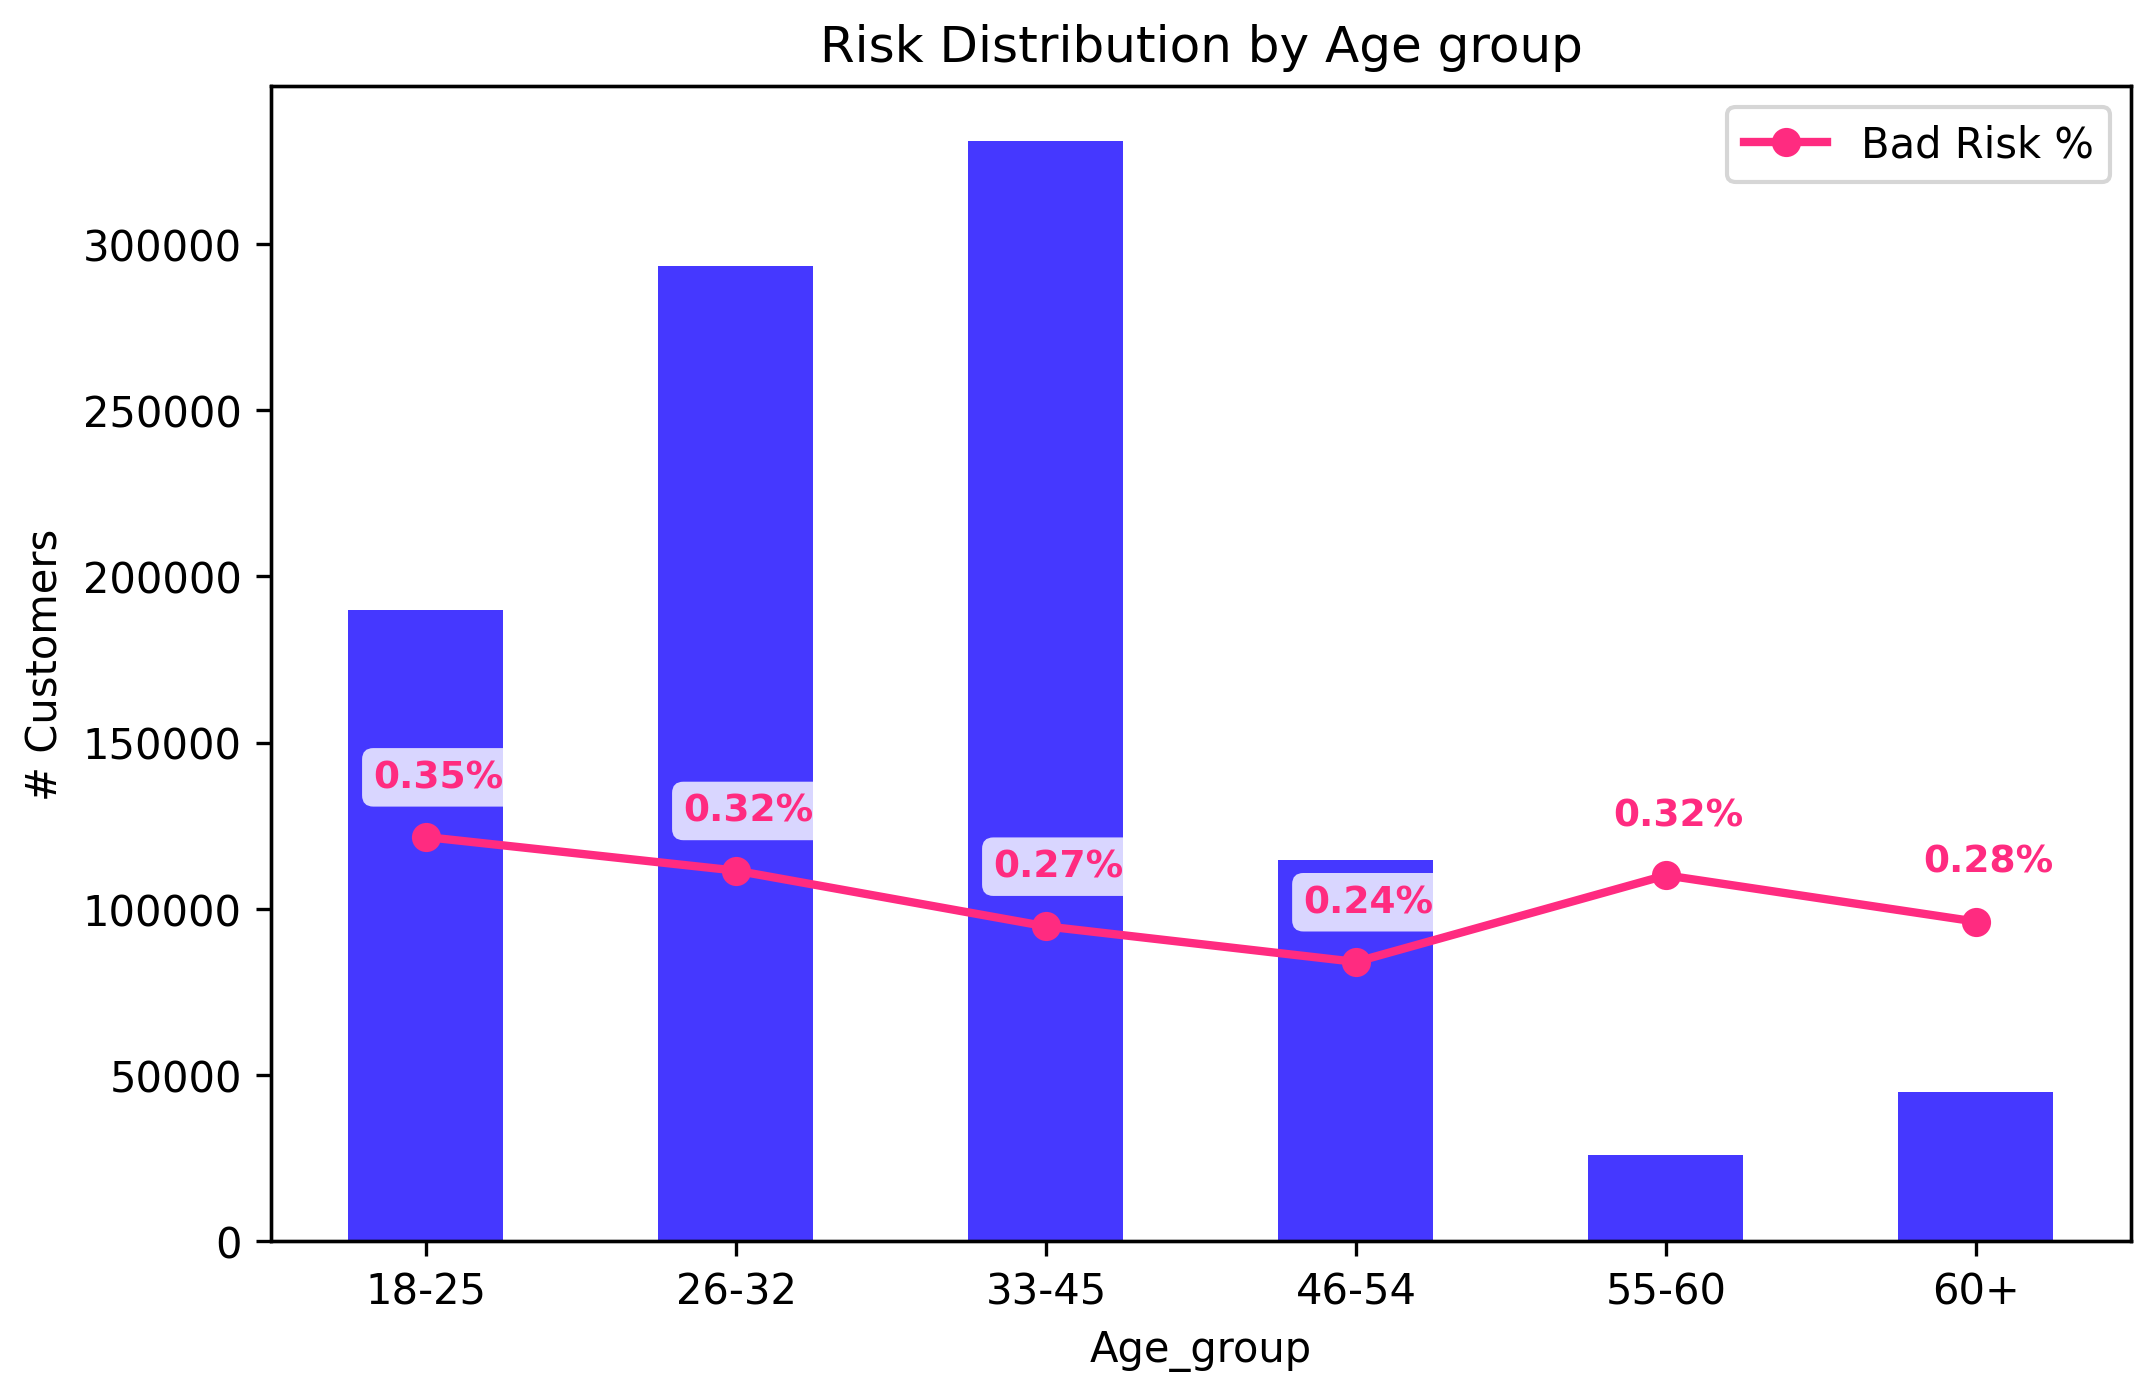
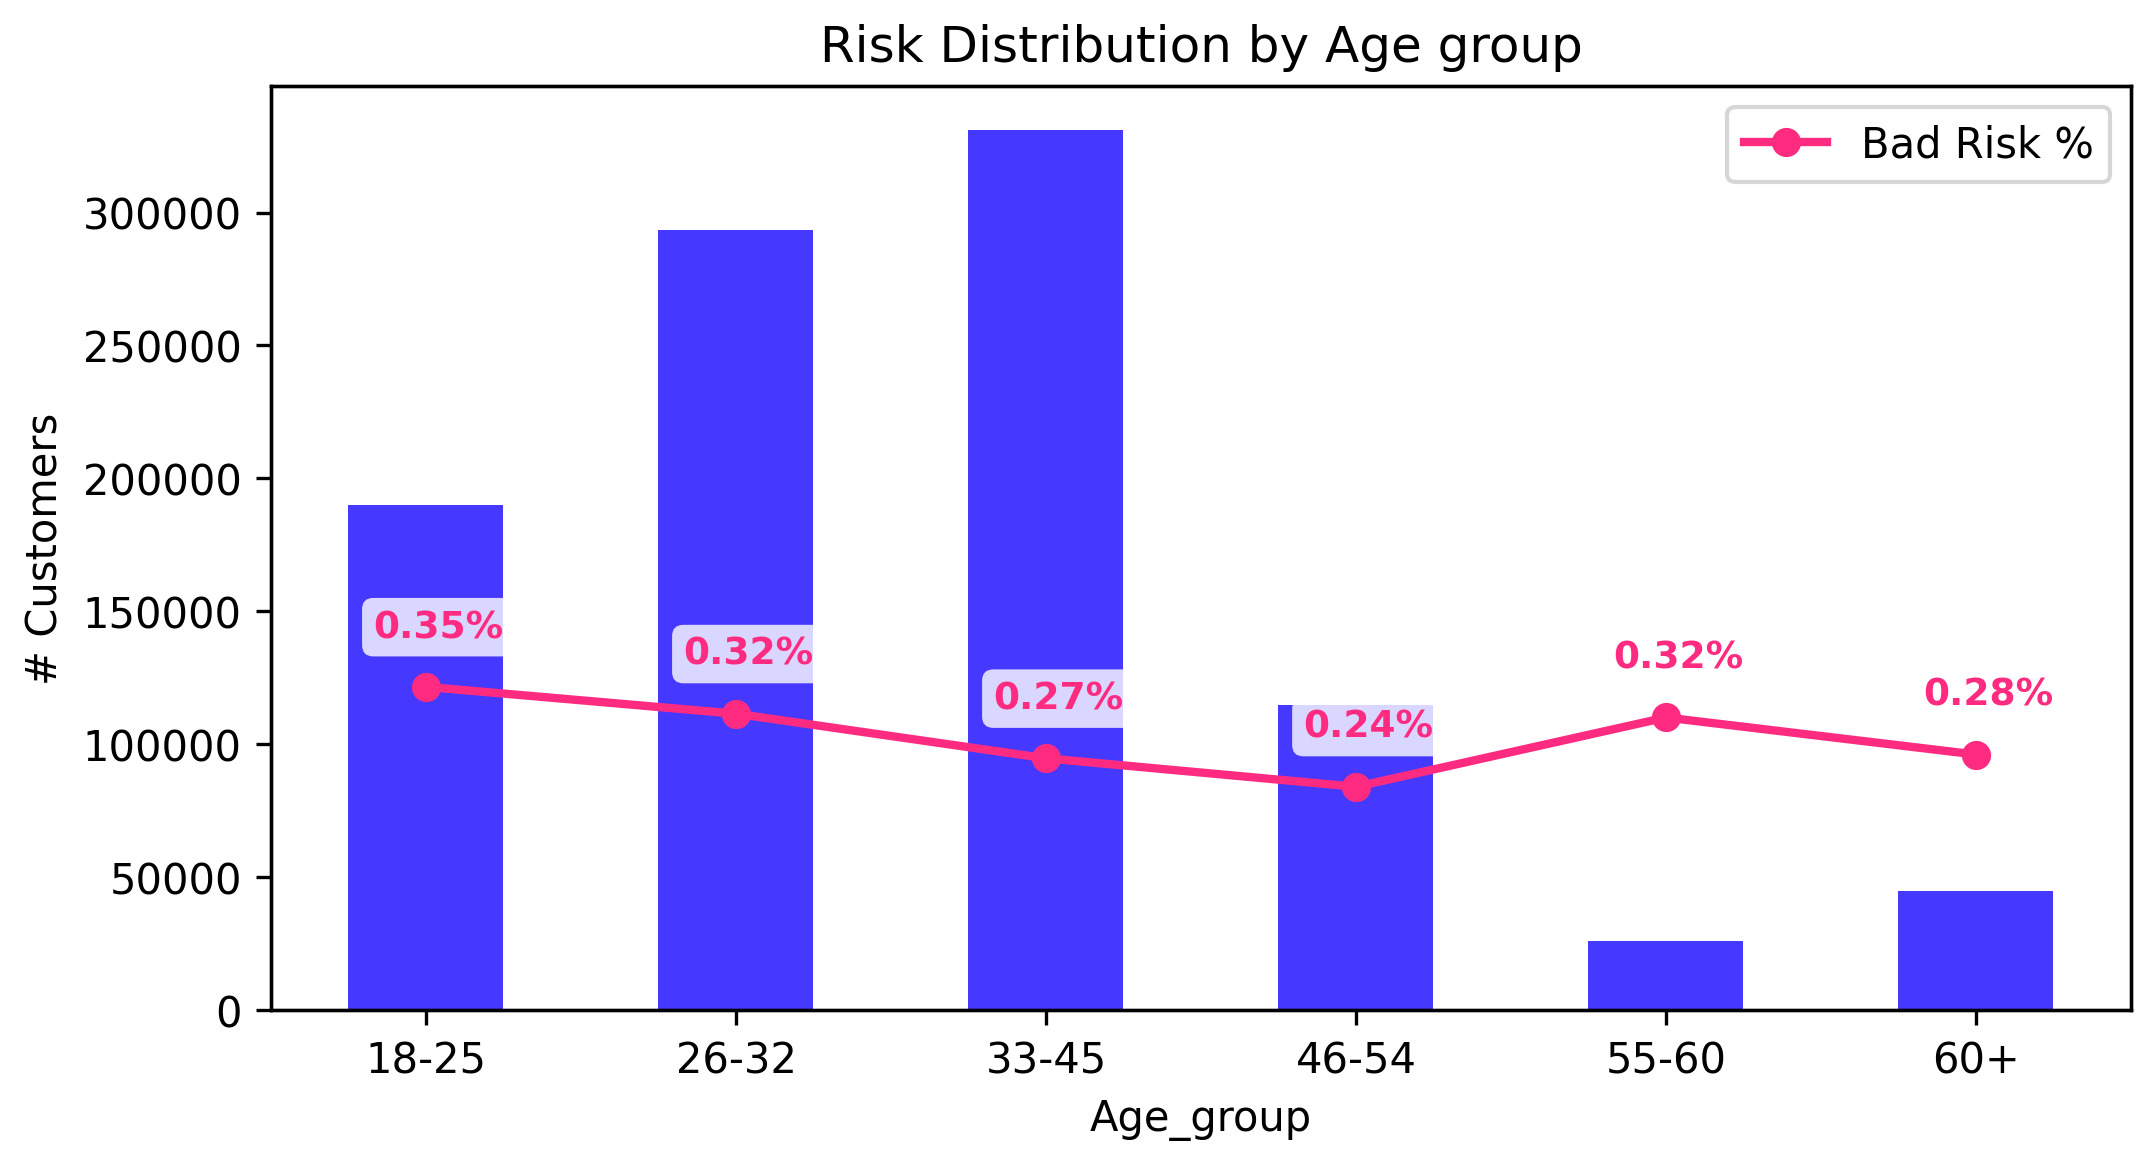
fix graphics page

diff --git a/frontend/src/app/datasample/analisys/page.tsx b/frontend/src/app/datasample/analisys/page.tsx
@@ -5,7 +5,7 @@ import {
   SidebarProvider,
   SidebarTrigger,
 } from "@/components/ui/sidebar";
-import { Card, CardContent } from "@/components/ui/card";
+import { Card, CardContent, CardDescription, CardHeader, CardTitle } from "@/components/ui/card";
 
 export default function Page() {
   return (
@@ -30,50 +30,102 @@ export default function Page() {
                 explicação do seu propósito e interpretação principal.
               </p>
 
-              <div className="grid grid-cols-1 md:grid-cols-2 gap-6 bg-muted/30">
-                <Card className="bg-muted/30">
-                  <CardContent>
-                    <img src="/exploratory/age_distribution.png" alt="Age distribution" className="w-full rounded-md" />
-                  </CardContent>
-                </Card>
+              <div className="flex flex-col gap-6">
+                <div className="grid grid-cols-1 md:grid-cols-2 gap-6">
+                  <Card className="bg-transparent border shadow-sm">
+                    <CardHeader>
+                      <CardTitle className="text-lg">Distribuição de Idade</CardTitle>
+                      <CardDescription>
+                        Visualização da distribuição etária dos clientes. Permite identificar a faixa de idade mais comum e detectar outliers.
+                      </CardDescription>
+                    </CardHeader>
+                    <CardContent>
+                      <img src="/exploratory/age_distribution.png" alt="Age distribution" className="w-full rounded-md" />
+                    </CardContent>
+                  </Card>
 
-                <Card className="bg-muted/30">
-                  <CardContent>
-                    <img src="/exploratory/sex_vs_risk.png" alt="Sex x Risk" className="w-full rounded-md" />
-                  </CardContent>
-                </Card>
+                  <Card className="bg-transparent border shadow-sm">
+                    <CardHeader>
+                      <CardTitle className="text-lg">Sexo vs Risco de Crédito</CardTitle>
+                      <CardDescription>
+                        Análise comparativa do risco de crédito entre diferentes gêneros, permitindo avaliar se existe correlação entre essas variáveis.
+                      </CardDescription>
+                    </CardHeader>
+                    <CardContent>
+                      <img src="/exploratory/sex_vs_risk.png" alt="Sex x Risk" className="w-full rounded-md" />
+                    </CardContent>
+                  </Card>
+                </div>
 
-                <Card className="bg-muted/30">
+                <Card className="bg-transparent border shadow-sm">
+                  <CardHeader>
+                    <CardTitle className="text-lg">Valor do Crédito vs Risco</CardTitle>
+                    <CardDescription>
+                      Relação entre o montante de crédito solicitado e o nível de risco. Ajuda a identificar se valores mais altos apresentam maior risco de inadimplência.
+                    </CardDescription>
+                  </CardHeader>
                   <CardContent>
                     <img src="/exploratory/credit_amount_vs_risk.png" alt="Credit amount vs Risk" className="w-full rounded-md" />
                   </CardContent>
                 </Card>
 
-                <Card className="bg-muted/30">
-                  <CardContent>
-                    <img src="/exploratory/jobs_vs_risk.png" alt="Jobs x Risk" className="w-full rounded-md" />
-                  </CardContent>
-                </Card>
+                <div className="grid grid-cols-1 md:grid-cols-2 gap-6">
+                  <Card className="bg-transparent border shadow-sm">
+                    <CardHeader>
+                      <CardTitle className="text-lg">Ocupação vs Risco de Crédito</CardTitle>
+                      <CardDescription>
+                        Distribuição do risco por tipo de ocupação profissional. Permite identificar quais setores apresentam maior ou menor risco de crédito.
+                      </CardDescription>
+                    </CardHeader>
+                    <CardContent>
+                      <img src="/exploratory/jobs_vs_risk.png" alt="Jobs x Risk" className="w-full rounded-md" />
+                    </CardContent>
+                  </Card>
 
-                <Card className="bg-muted/30">
-                  <CardContent>
-                    <img src="/exploratory/employee_since_vs_risk.png" alt="Employee since vs Risk" className="w-full rounded-md" />
-                  </CardContent>
-                </Card>
+                  <Card className="bg-transparent border shadow-sm">
+                    <CardHeader>
+                      <CardTitle className="text-lg">Tempo de Emprego vs Risco</CardTitle>
+                      <CardDescription>
+                        Análise da relação entre estabilidade no emprego e risco de crédito. Tempo maior de emprego pode indicar maior estabilidade financeira.
+                      </CardDescription>
+                    </CardHeader>
+                    <CardContent>
+                      <img src="/exploratory/employee_since_vs_risk.png" alt="Employee since vs Risk" className="w-full rounded-md" />
+                    </CardContent>
+                  </Card>
 
-                <Card className="bg-muted/30">
-                  <CardContent>
-                    <img src="/exploratory/savings_vs_risk.png" alt="Savings x Risk" className="w-full rounded-md" />
-                  </CardContent>
-                </Card>
+                  <Card className="bg-transparent border shadow-sm">
+                    <CardHeader>
+                      <CardTitle className="text-lg">Poupança vs Risco de Crédito</CardTitle>
+                      <CardDescription>
+                        Relação entre o volume de poupança e o risco de inadimplência. Clientes com mais reservas tendem a apresentar menor risco.
+                      </CardDescription>
+                    </CardHeader>
+                    <CardContent>
+                      <img src="/exploratory/savings_vs_risk.png" alt="Savings x Risk" className="w-full rounded-md" />
+                    </CardContent>
+                  </Card>
 
-                <Card className="bg-muted/30">
-                  <CardContent>
-                    <img src="/exploratory/checking_account_vs_risk.png" alt="Checking account x Risk" className="w-full rounded-md" />
-                  </CardContent>
-                </Card>
+                  <Card className="bg-transparent border shadow-sm">
+                    <CardHeader>
+                      <CardTitle className="text-lg">Conta Corrente vs Risco</CardTitle>
+                      <CardDescription>
+                        Análise do saldo em conta corrente em relação ao risco. Saldos mais altos geralmente indicam melhor capacidade de pagamento.
+                      </CardDescription>
+                    </CardHeader>
+                    <CardContent>
+                      <img src="/exploratory/checking_account_vs_risk.png" alt="Checking account x Risk" className="w-full rounded-md" />
+                    </CardContent>
+                  </Card>
+                </div>
 
-                <Card className="bg-muted/30">
+                <Card className="bg-transparent border shadow-sm">
+                  <CardHeader>
+                    <CardTitle className="text-lg">Matriz de Correlação</CardTitle>
+                    <CardDescription>
+                      Visualização das correlações entre todas as variáveis numéricas do dataset. Permite identificar relações lineares entre features.
+                    </CardDescription>
+                  </CardHeader>
                   <CardContent>
                     <img src="/exploratory/correlation_matrix.png" alt="Correlation matrix" className="w-full rounded-md" />
                   </CardContent>

diff --git a/frontend/src/components/ConfusionMatrix.tsx b/frontend/src/components/ConfusionMatrix.tsx
@@ -46,7 +46,7 @@ function getContrastColor(value: number): string {
 
 function getColorLegend(): JSX.Element {
   const start = 'rgba(69, 56, 255, 1)';
-  const end = 'rgba(255, 43, 128, 1)';
+  const end = 'rgba(250, 70, 142, 1)';
   return (
     <div className="flex flex-col items-center">
       <div className="text-xs text-gray-700 mb-1">1.0</div>

diff --git a/backend/utils/exploratory.py b/backend/utils/exploratory.py
@@ -14,6 +14,7 @@ matplotlib.use('Agg')
 import matplotlib.pyplot as plt
 import matplotlib.ticker as ticker
 import textwrap
+from matplotlib.colors import LinearSegmentedColormap
 
 
 OUT_DIR = Path(__file__).resolve().parents[2] / 'frontend' / 'public' / 'exploratory'
@@ -42,7 +43,7 @@ def generate_secondary_plot(df, group_by, custom_order=None):
         risk_counts = risk_counts.reindex(custom_order)
         total_counts = total_counts.reindex(custom_order)
 
-    fig, ax = plt.subplots(figsize=(8, 5))
+    fig, ax = plt.subplots(figsize=(8, 4))
     ax = total_counts.plot(kind='bar', color='#4538FF', ax=ax)
     ax.set_ylabel('# Customers')
     ax.set_xlabel(f'{group_by.capitalize()}')
@@ -74,7 +75,7 @@ def generate_credit_amount_plot(df):
     credit_bin_plot = pd.merge(bad_risk_in_credit_bin.to_frame(name='bad_risk_in_credit_bin'), bad_risk_percentage.to_frame(name='bad_risk_percentage'), left_index=True, right_index=True, how='inner')
     credit_bin_plot.drop(credit_bin_plot[credit_bin_plot['bad_risk_percentage']==0].index, inplace=True)
 
-    fig, ax1 = plt.subplots(figsize=(10, 6))
+    fig, ax1 = plt.subplots(figsize=(16, 4))
     credit_bin_plot.index = credit_bin_plot.index.astype(str)
     ax1.plot(credit_bin_plot.index, credit_bin_plot['bad_risk_in_credit_bin'], color='#4538FF', label='Bad Risk Cumulative')
     ax1.set_xlabel('Credit Amount Interval')
@@ -123,9 +124,16 @@ def generate_correlation_matrix(df):
 
     df_dummies = pd.get_dummies(df_local, dtype=int)
 
-    fig, ax = plt.subplots(figsize=(10, 8))
+    # Create custom colormap: blue (negative) -> white (zero) -> pink (positive)
+    cor_negativa = (69/255, 56/255, 255/255, 1)   # azul
+    cor_positiva = (250/255, 70/255, 148/255, 1)  # rosa
+    colors = [cor_negativa, 'white', cor_positiva]
+    n_bins = 100
+    cmap = LinearSegmentedColormap.from_list('custom', colors, N=n_bins)
+
+    fig, ax = plt.subplots(figsize=(10,10))
     corr = df_dummies.corr()
-    im = ax.imshow(corr, cmap='coolwarm', vmin=-1, vmax=1)
+    im = ax.imshow(corr, cmap=cmap, vmin=-1, vmax=1)
     ax.set_xticks(range(len(corr.columns)))
     ax.set_xticklabels(corr.columns, rotation=90, fontsize=8)
     ax.set_yticks(range(len(corr.columns)))
